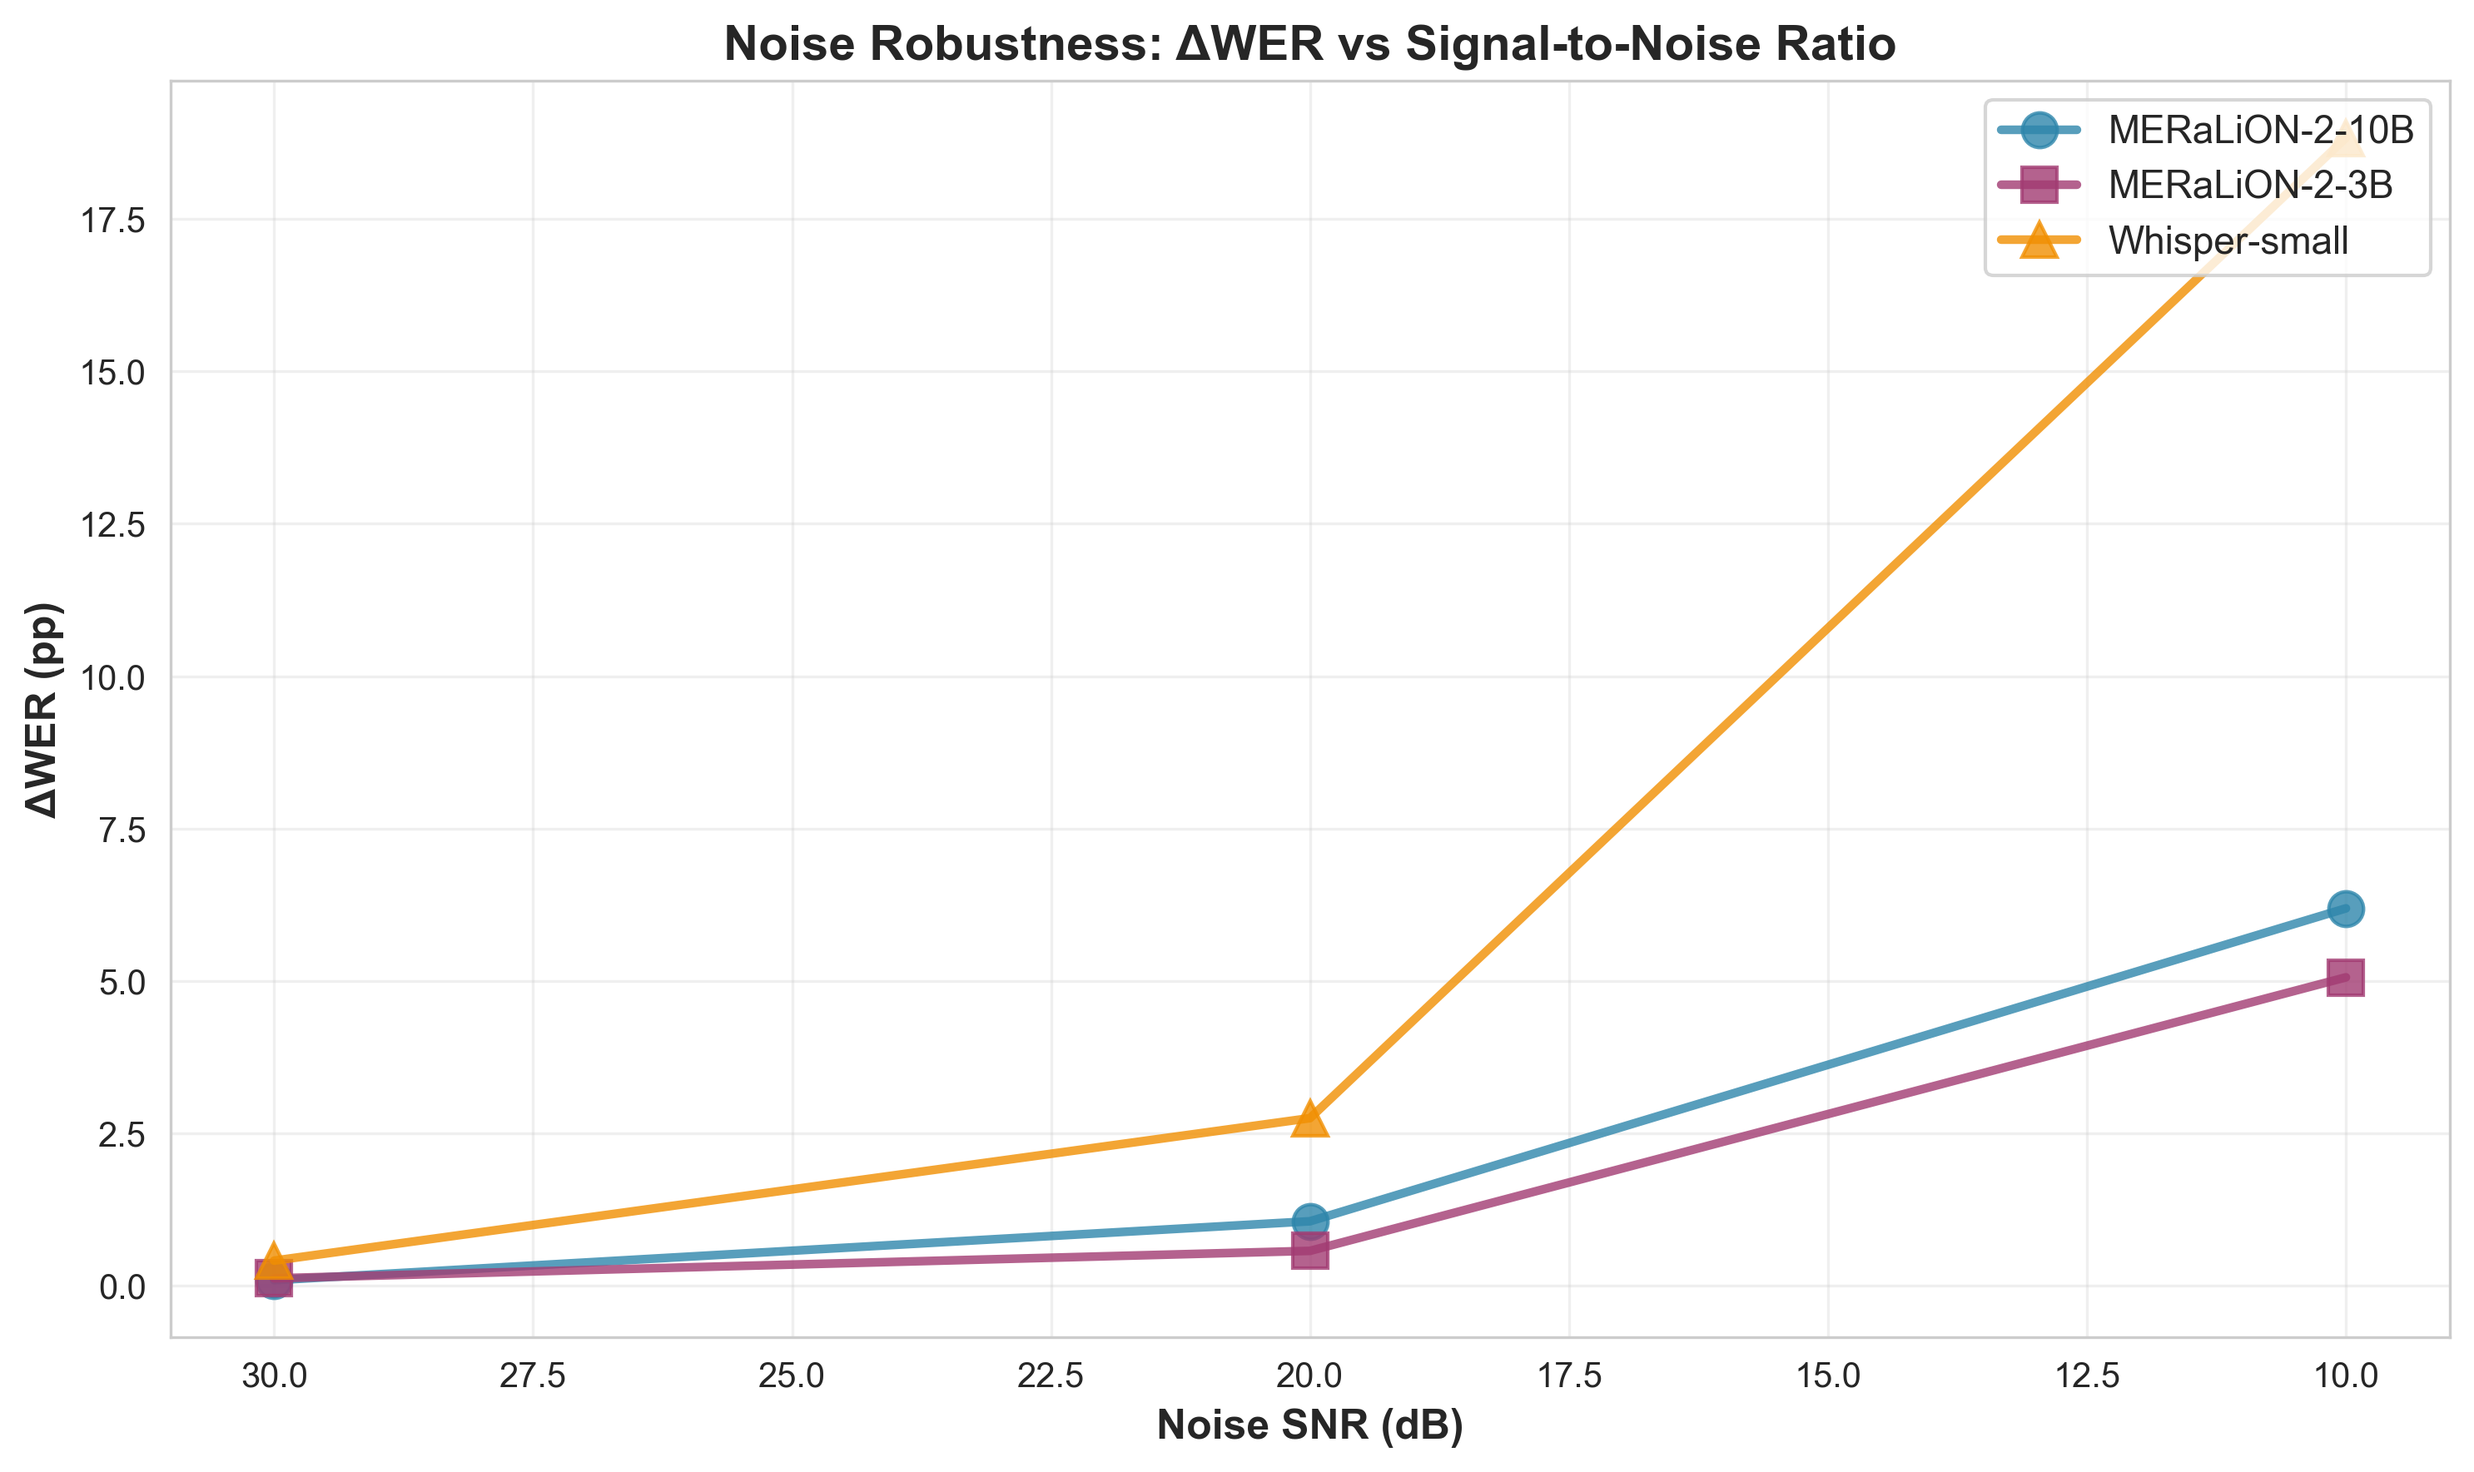
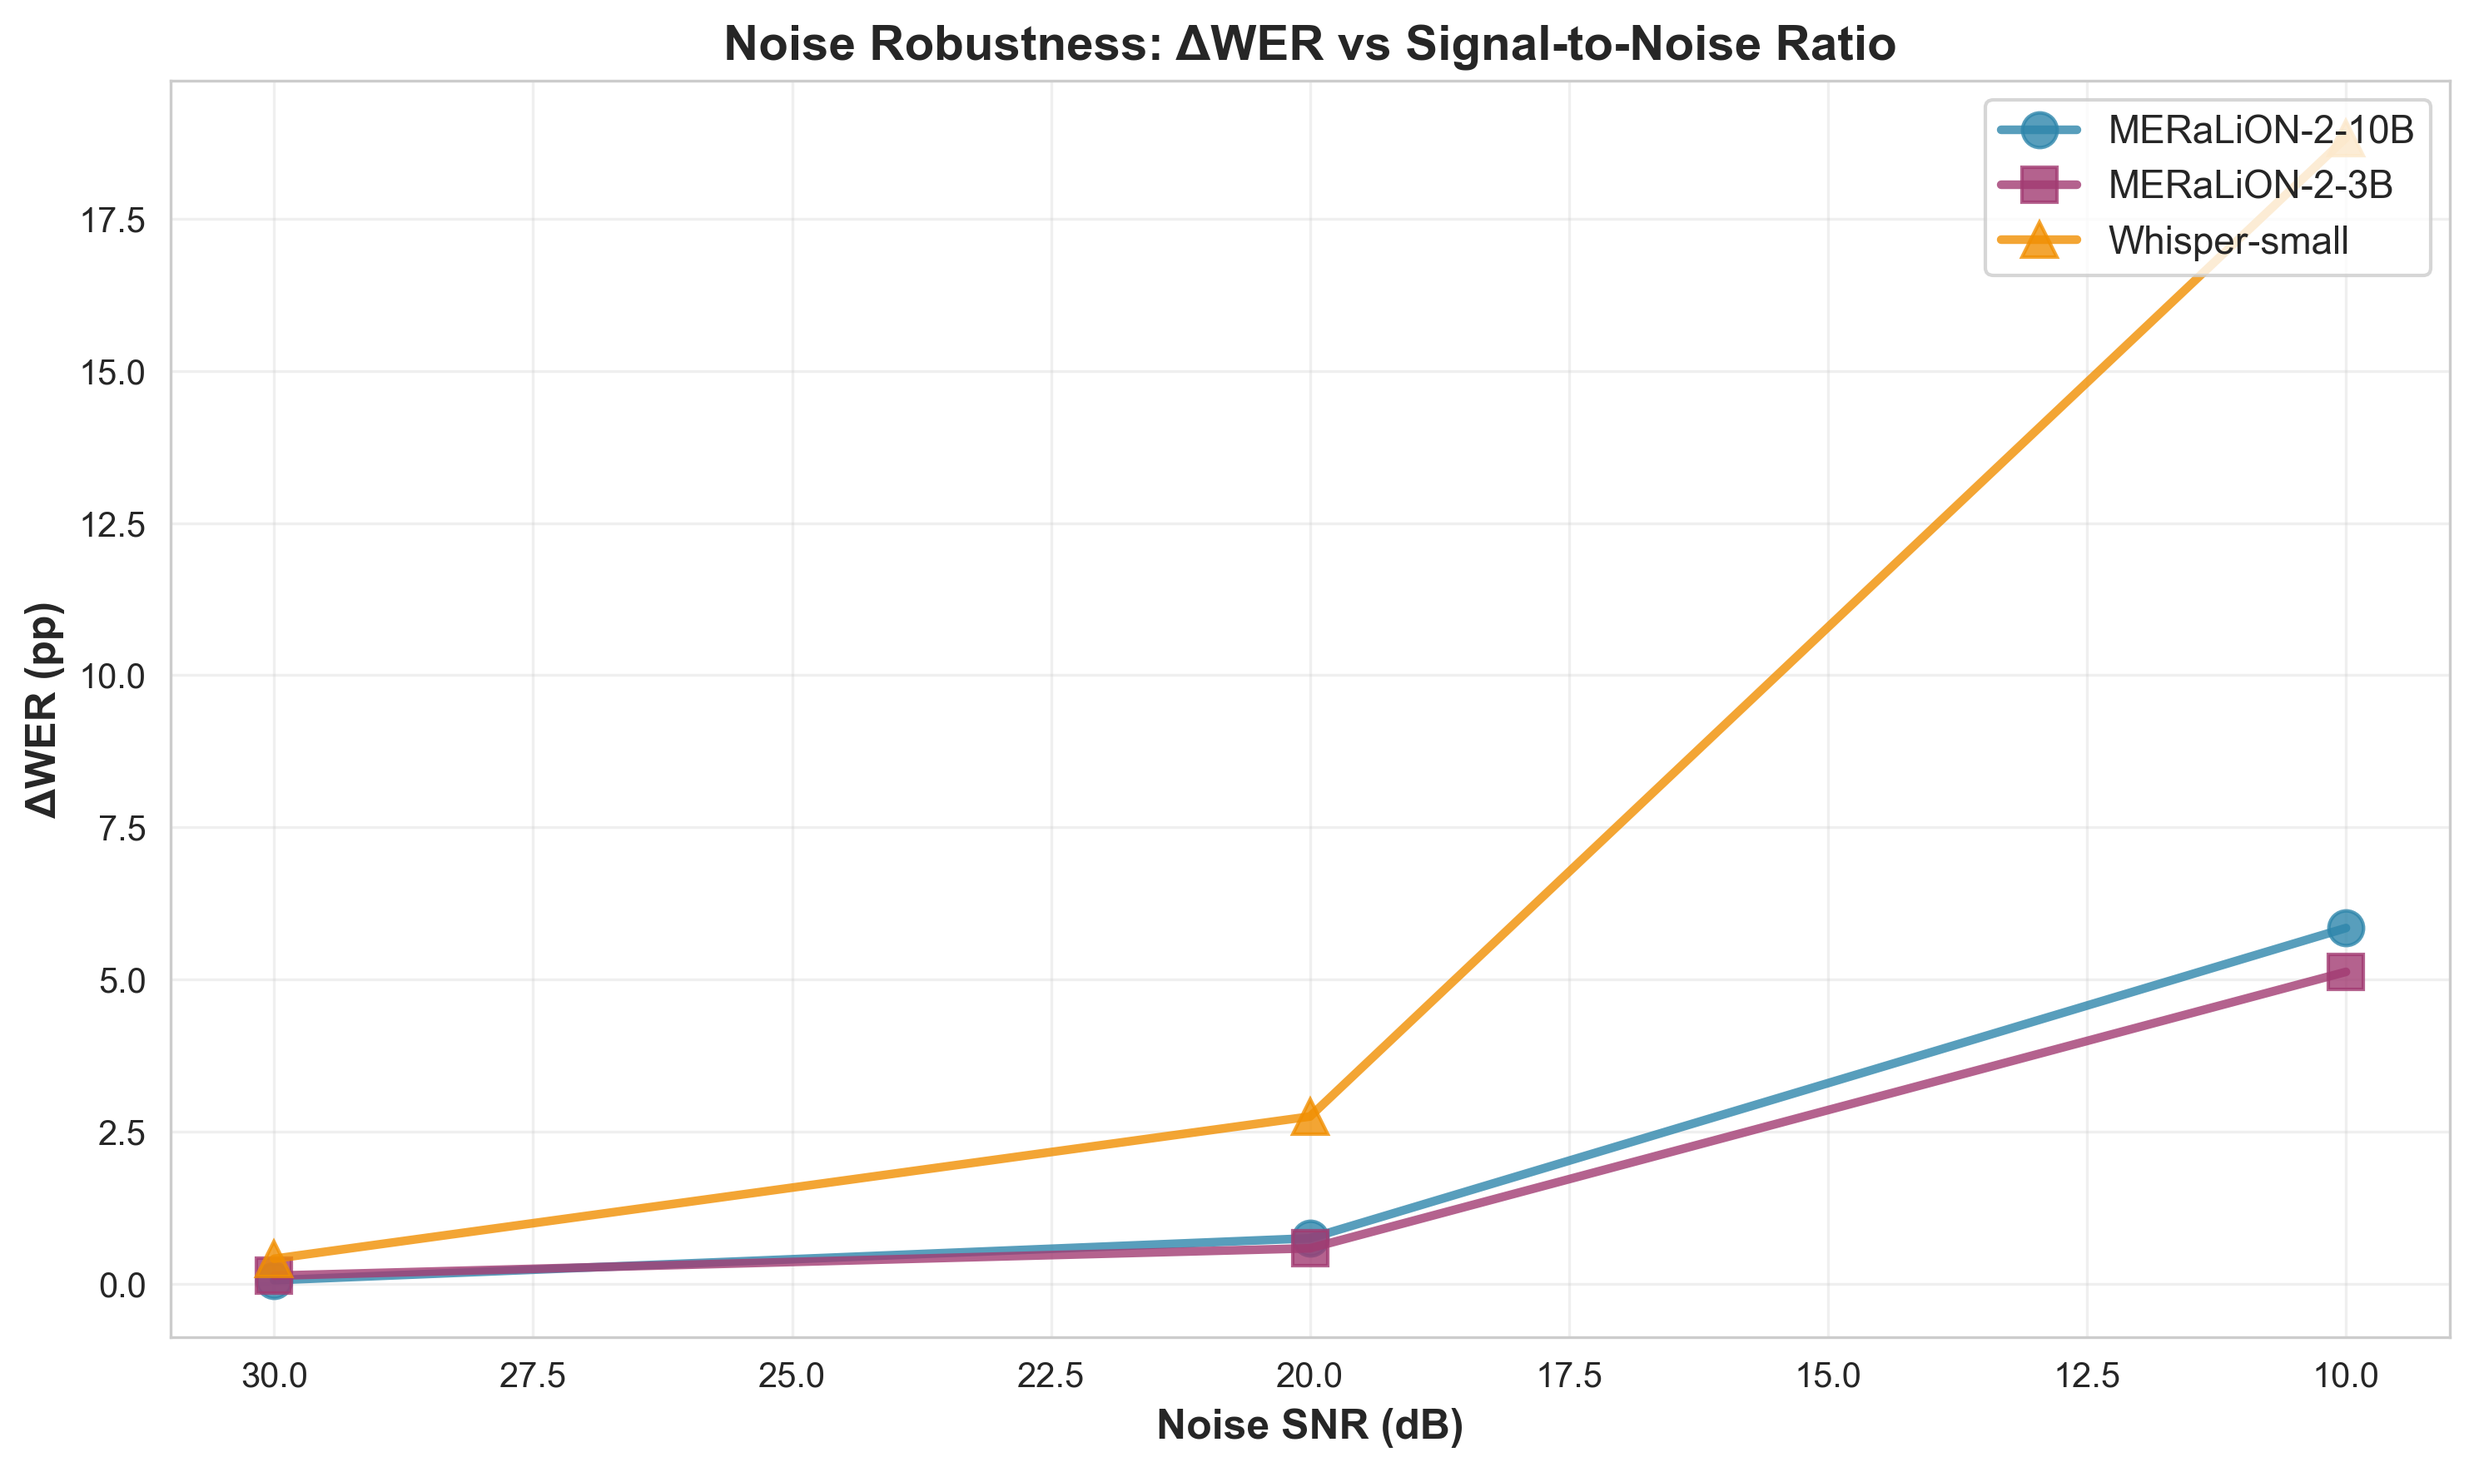
Regenerate robustness visualizations and summary with corrected metrics
Visualization Updates:
- Regenerated all 4 robustness charts with corrected WER/CER values
- Updated corruption_heatmap.png to show MERaLiON's improved performance
- Updated accuracy_vs_robustness.png scatter plot
- Updated noise_severity.png line plot
- Updated model_comparison.png bar charts

Summary CSV:
- Regenerated results/robustness/summary.csv with fixed normalization
- MERaLiON-2-10B: 13.6% WER (was incorrectly 26.1%)
- MERaLiON-2-3B: 13.1% WER (was incorrectly 28.9%)
- Whisper-small: 17.9% WER (unchanged, already correct)

Technical Changes:
- Created scripts/regenerate_summary.py to recalculate summary.csv from JSONL
- Uses corrected normalization from asr_eval/metrics/wer_cer.py
- All visualizations now accurately reflect MERaLiON's superior baseline accuracy

The heatmap in Final Report.docx now shows the corrected robustness metrics
after fixing the speaker tag normalization bug.

diff --git a/scripts/regenerate_summary.py b/scripts/regenerate_summary.py
@@ -1,0 +1,127 @@
+#!/usr/bin/env python3
+"""Regenerate summary.csv with corrected WER/CER metrics using fixed normalization."""
+
+import json
+import sys
+import csv
+from pathlib import Path
+from collections import defaultdict
+
+# Add parent directory to path
+sys.path.insert(0, str(Path(__file__).parent.parent))
+
+from asr_eval.metrics.wer_cer import corpus_scores
+
+
+def regenerate_robustness_summary():
+    """Regenerate results/robustness/summary.csv with corrected metrics."""
+    print("=" * 70)
+    print("REGENERATING ROBUSTNESS SUMMARY.CSV")
+    print("=" * 70)
+
+    jsonl_path = Path("results/robustness/details.jsonl")
+    if not jsonl_path.exists():
+        print(f"❌ File not found: {jsonl_path}")
+        return
+
+    # Load all records
+    records = []
+    with open(jsonl_path) as f:
+        for line in f:
+            if line.strip():
+                records.append(json.loads(line))
+
+    print(f"Loaded {len(records)} records\n")
+
+    # Group by model, corruption, and severity
+    grouped = defaultdict(lambda: defaultdict(lambda: defaultdict(list)))
+    for rec in records:
+        model = rec['model']
+        corruption = rec.get('corruption', 'none')
+        severity = rec.get('severity', 0) if corruption != 'none' else 0
+        grouped[model][corruption][severity].append(rec)
+
+    # Calculate clean baseline for each model
+    clean_baseline = {}
+    for model in grouped.keys():
+        if 'none' in grouped[model]:
+            clean_recs = grouped[model]['none'][0]  # Severity 0 for clean
+            refs = [r['ref'] for r in clean_recs]
+            hyps = [r['hyp'] for r in clean_recs]
+            scores = corpus_scores(refs, hyps)
+            clean_baseline[model] = {'wer': scores.wer, 'cer': scores.cer}
+            print(f"{model}: Clean WER={scores.wer*100:.1f}%, CER={scores.cer*100:.1f}%")
+
+    # Prepare summary rows
+    summary_rows = []
+
+    for model in sorted(grouped.keys()):
+        for corruption in sorted(grouped[model].keys()):
+            for severity in sorted(grouped[model][corruption].keys()):
+                recs = grouped[model][corruption][severity]
+                refs = [r['ref'] for r in recs]
+                hyps = [r['hyp'] for r in recs]
+                scores = corpus_scores(refs, hyps)
+
+                # Calculate deltas
+                if model in clean_baseline:
+                    delta_wer = scores.wer - clean_baseline[model]['wer']
+                    delta_cer = scores.cer - clean_baseline[model]['cer']
+                else:
+                    delta_wer = 0
+                    delta_cer = 0
+
+                # Count seeds and utterances
+                n_seed = len(set(r.get('seed', 0) for r in recs))
+                n_utts = len(recs) // max(n_seed, 1)
+
+                row = {
+                    'model': model,
+                    'corruption': corruption,
+                    'severity': severity,
+                    'wer_mean': scores.wer,
+                    'wer_lo': scores.wer,  # Simplified - no bootstrap CIs
+                    'wer_hi': scores.wer,
+                    'cer_mean': scores.cer,
+                    'cer_lo': scores.cer,
+                    'cer_hi': scores.cer,
+                    'dWER_mean': delta_wer,
+                    'dWER_lo': delta_wer,
+                    'dWER_hi': delta_wer,
+                    'dCER_mean': delta_cer,
+                    'dCER_lo': delta_cer,
+                    'dCER_hi': delta_cer,
+                    'n_seed': n_seed,
+                    'n_utts': n_utts,
+                }
+                summary_rows.append(row)
+
+    # Write to CSV
+    output_path = Path("results/robustness/summary.csv")
+    fieldnames = [
+        'model', 'corruption', 'severity',
+        'wer_mean', 'wer_lo', 'wer_hi',
+        'cer_mean', 'cer_lo', 'cer_hi',
+        'dWER_mean', 'dWER_lo', 'dWER_hi',
+        'dCER_mean', 'dCER_lo', 'dCER_hi',
+        'n_seed', 'n_utts'
+    ]
+
+    with open(output_path, 'w', newline='') as f:
+        writer = csv.DictWriter(f, fieldnames=fieldnames)
+        writer.writeheader()
+        writer.writerows(summary_rows)
+
+    print(f"\n✅ Regenerated: {output_path}")
+    print(f"   Total rows: {len(summary_rows)}")
+    print("\nSample corrected values:")
+    for model in sorted(clean_baseline.keys()):
+        print(f"  {model}: {clean_baseline[model]['wer']*100:.1f}% WER (clean)")
+
+
+if __name__ == "__main__":
+    regenerate_robustness_summary()
+    print("\n" + "=" * 70)
+    print("✅ SUMMARY.CSV REGENERATION COMPLETE!")
+    print("=" * 70)
+    print("\nNext step: Run scripts/generate_visualizations.py to update charts")
